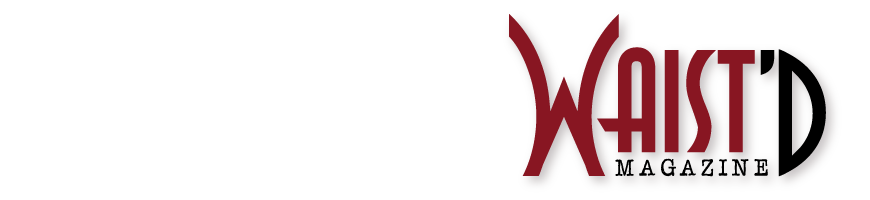
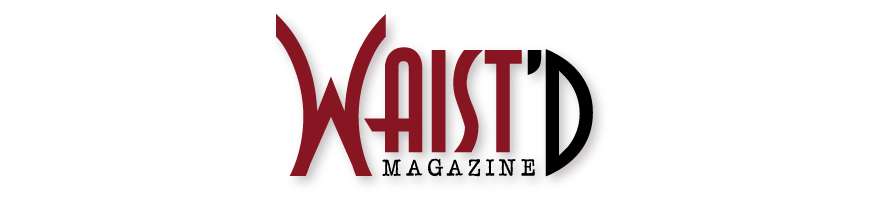
Replaced images to increase quality of display on remote devices

Changed region(s): [[0.3103, 0.09, 0.9621, 0.9]]

diff --git a/design/waisted.html b/design/waisted.html
@@ -46,8 +46,8 @@
     <div class="container">
         <div class="section-header row">
             <div class="col-sm-3">
-                <h3>Waistd Magazine Title</h3>
-                <p>Waistd Magazine is a regular publication for those with a more exciting taste in undergarments and club wear.</p>
+                <h3>Waist'd Magazine Title</h3>
+                <p>Waist'd Magazine is a regular publication for those with a more exciting taste in undergarments and club wear.</p>
                 <p>The aim was to design a contemporary title logo with a burlesque feel.</p>
             </div>
             <div class="col-sm-9"><img class="img-responsive" style="margin-right: 10px;" src="/images/design/001b-waisted.png"></div>

diff --git a/design/index.html b/design/index.html
@@ -90,7 +90,7 @@
                 <a href="remade.html"><img class="img-responsive opacity" src="/images/design/010a-remade.png"></a>
             </div>
             <div class="col-lg-4 col-sm-6 col-xs-12">
-                <a href="#"><img class="img-responsive opacity" src="/images/design/012a-magpie.png"></a>
+                <a href="magpie.html"><img class="img-responsive opacity" src="/images/design/012a-magpie.png"></a>
             </div>
             <div class="col-lg-4 col-sm-6 col-xs-12">
                 <a href="babybug.html"><img class="img-responsive opacity" src="/images/design/017a-baby-bug.png"></a>
